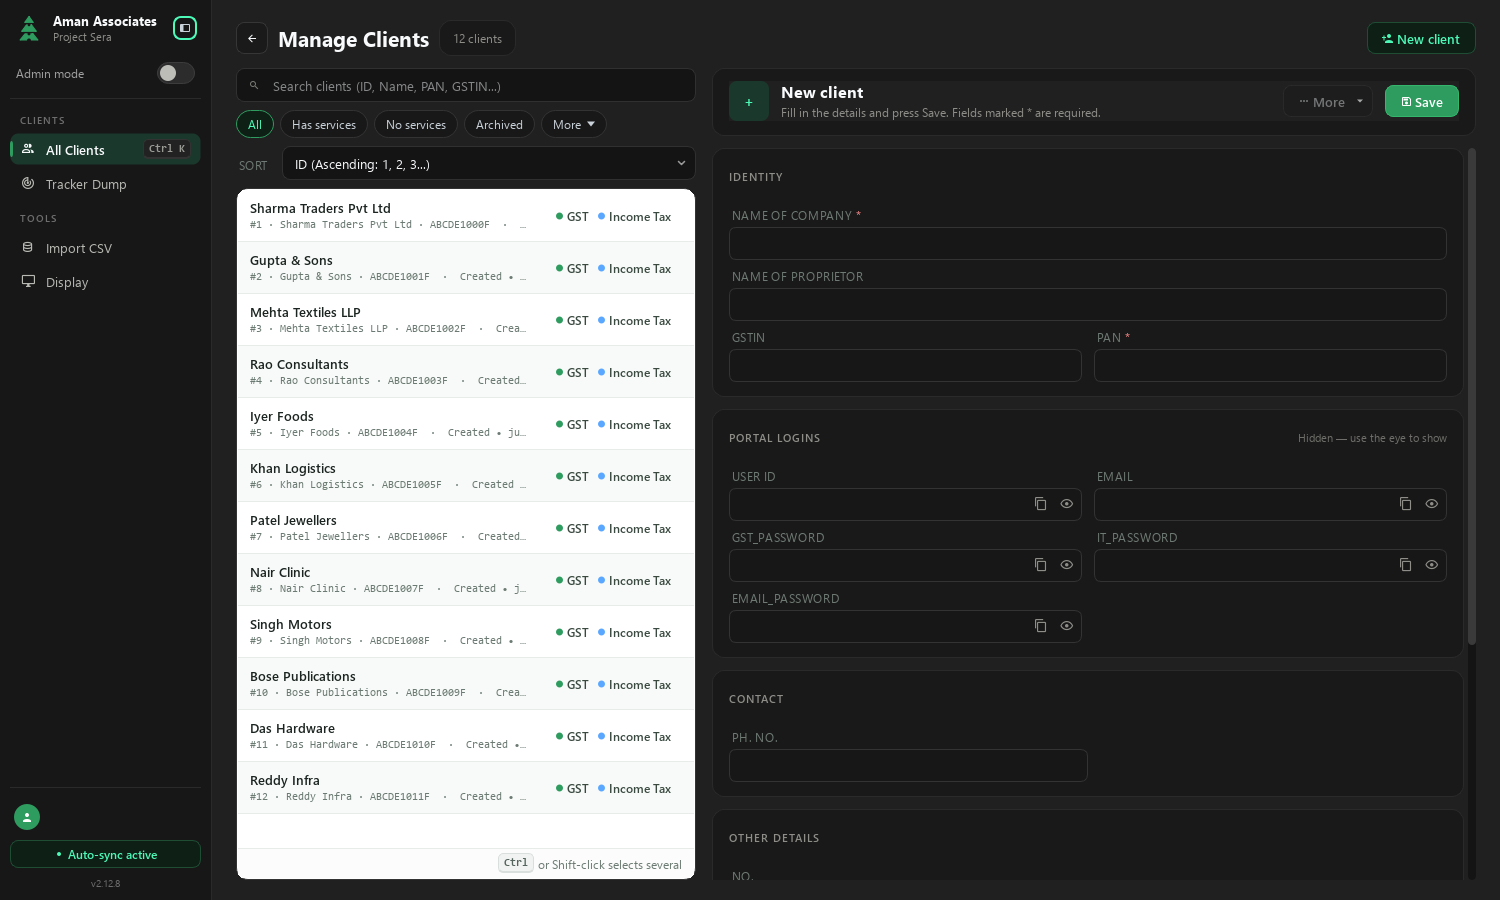
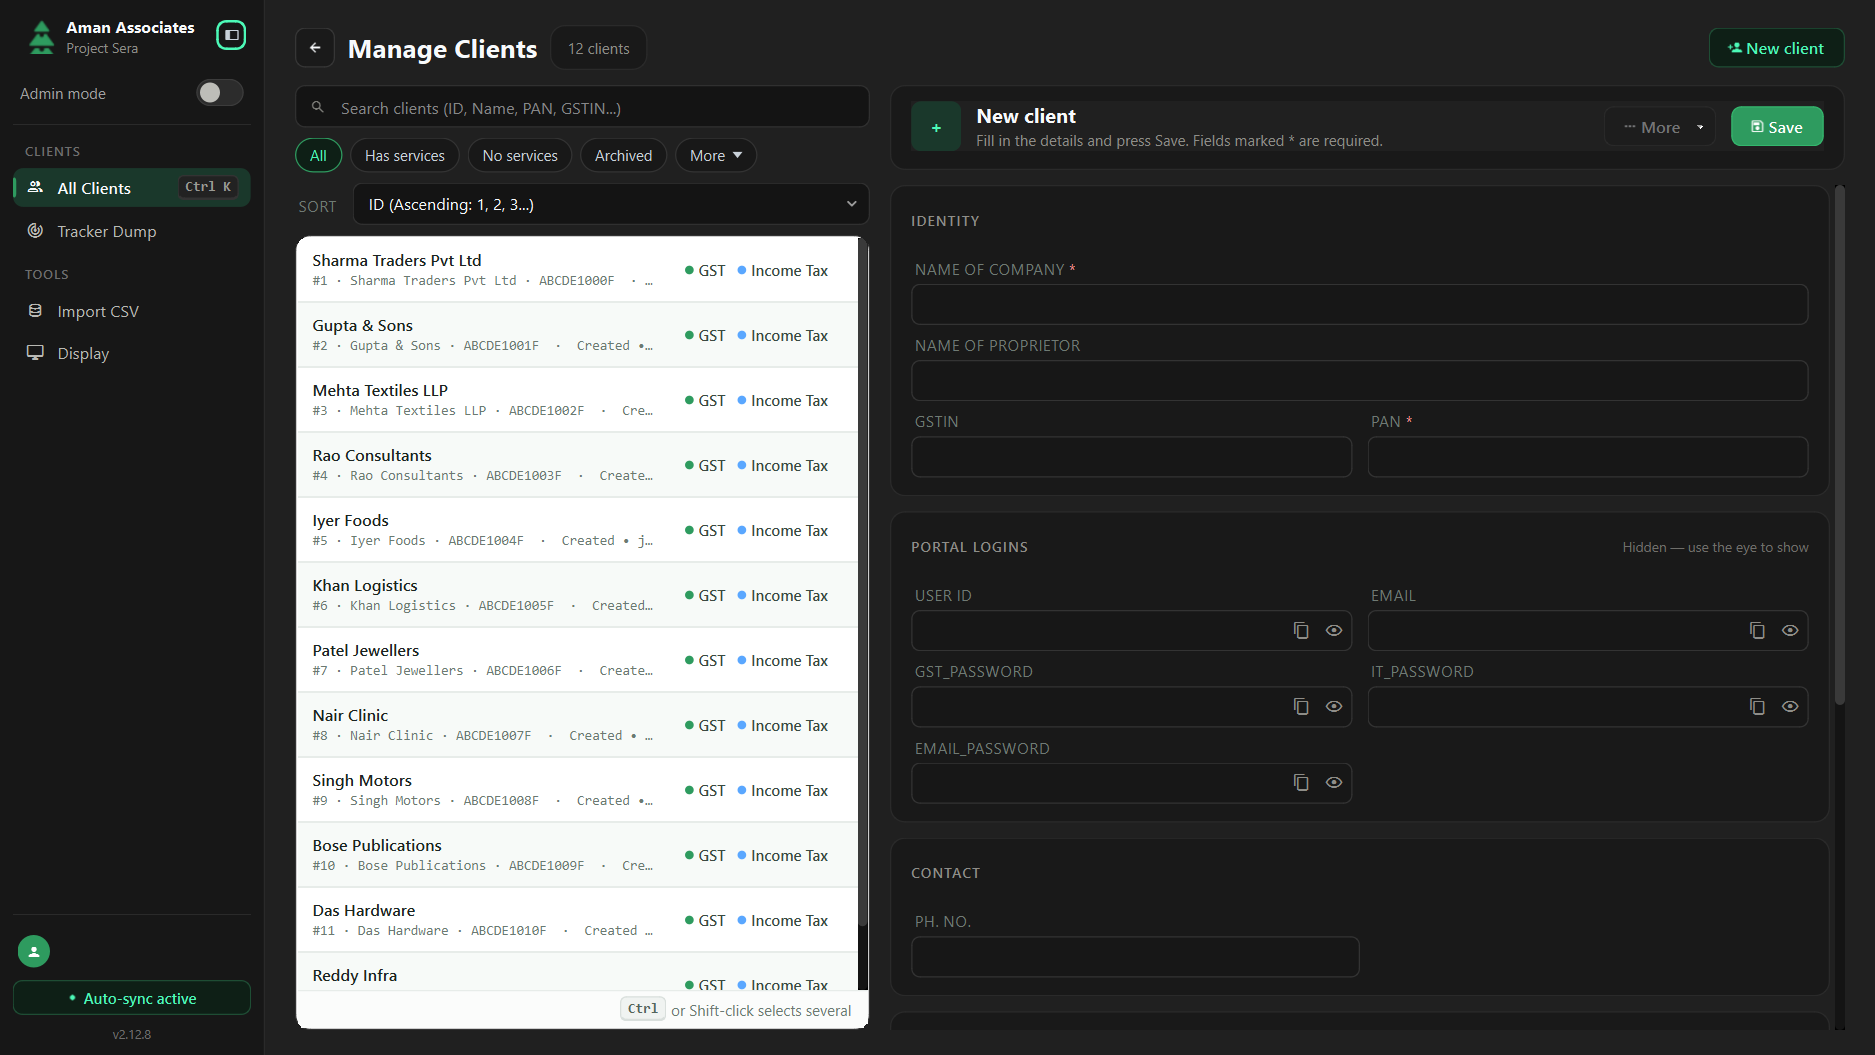
ui-overhaul: fresh built snapshots and mockup renders for the Fable polish review
- Mockups/built/*.png re-rendered at HEAD; Mockups/built/sized/ adds the real
  shell at 1366x768, 1024x700 and 1366x768 @ 1.25 (Tracker Dump with sample rows).
- Mockups/fleet/renders/: every screen of fleet/index.html as PNG (headless Edge).
- Mockups/overhaul/polish-review-cloud.txt: the cloud-session prompt.

diff --git a/Mockups/overhaul/ui-overhaul-report.md b/Mockups/overhaul/ui-overhaul-report.md
@@ -1,4 +1,4 @@
-# UI overhaul — report (2026-10-12 12:13)
+# UI overhaul — report (2026-10-12 12:49)
 
 Deadline: 2026-10-12T23:00:00+05:30
 
@@ -6,11 +6,11 @@ Deadline: 2026-10-12T23:00:00+05:30
 | :--- | ---: |
 | Not started | 0 |
 | In progress | 0 |
-| Retry | 1 |
-| Done | 35 |
+| Retry | 0 |
+| Done | 36 |
 | Blocked | 0 |
 
-Runs: 45   output tokens: 2032990   API-equivalent cost: $155.76
+Runs: 46   output tokens: 2044650   API-equivalent cost: $156.85
 
 | WP | Status | Model | Commit | What | Notes |
 | :--- | :--- | :--- | :--- | :--- | :--- |
@@ -49,9 +49,7 @@ Runs: 45   output tokens: 2032990   API-equivalent cost: $155.76
 | S-R | Done | opus | fbcb288 | Review phase S (screens) | Phase S reviewed: controls all kept; ~125 QMessageBox -> kit.MessageBox (owner Q3); Settings literal QSS dropped; tracker autofill emerald; rules test 76; suite |
 | F-1 | Done | mechanical | 91f3522 | Finish: Rewrite docs/Sera_UI.md from the kit docstring and tokens; update Mockups/README.md and ... | Rewrote docs/Sera_UI.md, updated statuses to built in README and BUILD-PLAN, removed legacy settings_dialog.py |
 | F-2 | Done | mechanical | 507b259 | Finish: Real screenshots of every screen into Mockups/built/ (fictional data). | Screenshots of every screen regenerated at HEAD with fictional data; display scale dialog added; clipped sub-label recorded for R-3 |
-| F-R | Retry | opus |  | Review phase F (finish) | attempt 1: no finish. The full suite is still running in the background (about 220 of 3643 tests done), and I'll pick up when it finishes. So far:
-
-- **Merge co |
+| F-R | Done | opus | 717ffd8 | Review phase F (finish) | Mockups/MERGE-READINESS.md: ready after 2 documented conflict fixes; ARN switch ported; suite 3505/137 fail (all outside branch) |
 
 ## Decisions taken for you
 
